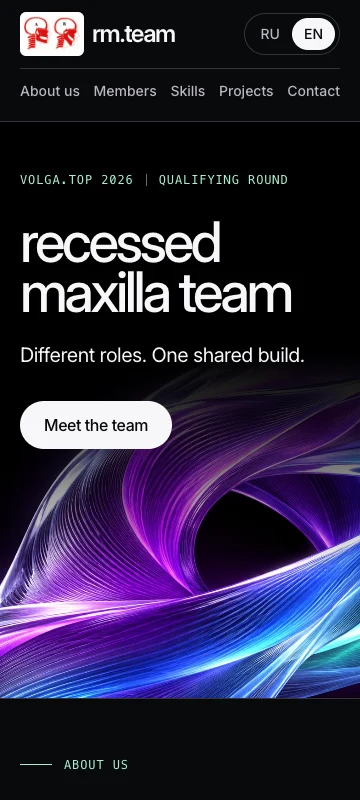
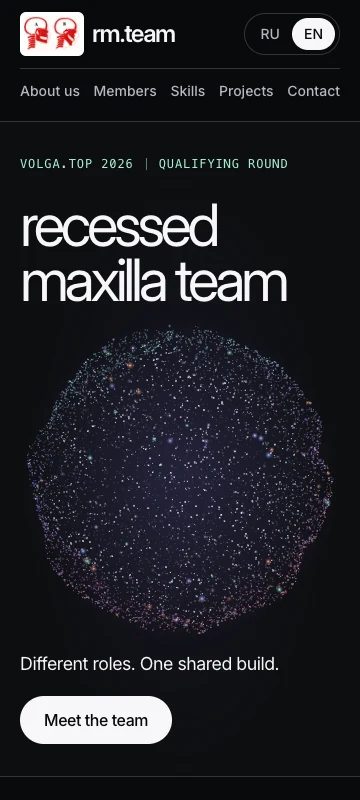
feat(frontend): animate the hero with a particle sphere

diff --git a/frontend/components/sphere-scene.ts b/frontend/components/sphere-scene.ts
@@ -1,0 +1,92 @@
+const tau = 2 * Math.PI;
+const starColors = ["#8daeff", "#9cffe6", "#ff966e", "#c1a2ff"];
+
+function makeGlow(color: string) {
+  const sprite = document.createElement("canvas");
+  sprite.width = sprite.height = 32;
+  const brush = sprite.getContext("2d");
+  if (!brush) return sprite;
+  const glow = brush.createRadialGradient(16, 16, 0, 16, 16, 16);
+  glow.addColorStop(0, "#fff");
+  glow.addColorStop(0.16, color);
+  glow.addColorStop(0.45, color + "70");
+  glow.addColorStop(1, color + "00");
+  brush.fillStyle = glow;
+  brush.fillRect(0, 0, 32, 32);
+  return sprite;
+}
+
+export function createSphereScene(context: CanvasRenderingContext2D, labels: HTMLElement[]) {
+  // A repeatable surface keeps the opening frame stable across locale changes.
+  let seed = 4627;
+  function random() {
+    seed = (Math.imul(seed, 1664525) + 1013904223) >>> 0;
+    return seed / 4294967296;
+  }
+
+  const glows = starColors.map(makeGlow);
+  const particles = Array.from({ length: 6200 }, () => {
+    const y = random() * 2 - 1;
+    const longitude = random() * tau;
+    const ring = Math.sqrt(1 - y * y);
+    const x = Math.cos(longitude) * ring;
+    const z = Math.sin(longitude) * ring;
+    const phase = longitude * 5 + y * 9;
+    const shell = 0.972 + 0.019 * Math.sin(phase) + 0.015 * Math.cos(y * 17 + longitude * 3) + random() * 0.025;
+    const hue = 261 + y * 70 + 24 * x + (random() - 0.5) * 34;
+    return {
+      x: x * shell, y: y * shell, z: z * shell, phase,
+      color: `hsl(${hue} 78% ${65 + random() * 28}%)`,
+      size: 0.0022 + random() ** 2 * 0.0043,
+      glow: random() < 0.022 ? glows[Math.floor(random() * glows.length)] : null,
+    };
+  });
+
+  const anchors = labels.map((element, index) => {
+    const y = labels.length === 1 ? 0 : 1.3 * ((index + 0.5) / labels.length - 0.5);
+    const ring = Math.sqrt(1 - y * y);
+    const angle = index * 2.4 + 0.3;
+    return { element, x: ring * Math.sin(angle), y, z: ring * Math.cos(angle) };
+  });
+
+  return function draw(size: number, time: number) {
+    const radius = size * 0.465;
+    const center = size / 2;
+    const angle = time * 0.095;
+    const cos = Math.cos(angle);
+    const sin = Math.sin(angle);
+    const tilt = 0.12 * Math.sin(time * 0.13) - 0.08;
+    const ct = Math.cos(tilt);
+    const st = Math.sin(tilt);
+    context.clearRect(0, 0, size, size);
+
+    for (const p of particles) {
+      const z = p.z * cos - p.x * sin;
+      const depth = z * ct + p.y * st;
+      const wave = 1 + 0.013 * Math.sin(time * 0.68 + p.phase);
+      const scale = radius * wave / (1 - depth * 0.095);
+      const x = center + (p.x * cos + p.z * sin) * scale;
+      const y = center + (p.y * ct - z * st) * scale;
+      const light = (depth + 1) / 2;
+      const dot = Math.max(0.55, radius * p.size * (0.68 + light));
+      context.globalAlpha = 0.29 + light * (0.58 + 0.12 * Math.sin(p.phase + time));
+      if (p.glow) {
+        const halo = dot * 3.4;
+        context.drawImage(p.glow, x - halo, y - halo, halo * 2, halo * 2);
+      } else {
+        context.fillStyle = depth > 0.54 ? "#e1e6ff" : p.color;
+        context.fillRect(x, y, dot, dot);
+      }
+    }
+    context.globalAlpha = 1;
+
+    for (const anchor of anchors) {
+      const z = anchor.z * cos - anchor.x * sin;
+      const depth = z * ct + anchor.y * st;
+      const scale = radius * 0.78 / (1 - depth * 0.095);
+      anchor.element.style.left = `${center + (anchor.x * cos + anchor.z * sin) * scale}px`;
+      anchor.element.style.top = `${center + (anchor.y * ct - z * st) * scale}px`;
+      anchor.element.style.opacity = String(Math.min(1, Math.max(0, depth * 5)));
+    }
+  };
+}

diff --git a/frontend/components/particle-sphere.tsx b/frontend/components/particle-sphere.tsx
@@ -1,0 +1,83 @@
+"use client";
+
+import { useEffect, useRef } from "react";
+import type { Locale } from "../data/team";
+import { sphereLabels } from "../data/sphere-labels";
+import { createSphereScene } from "./sphere-scene";
+
+export function ParticleSphere({ lang }: { lang: Locale }) {
+  const container = useRef<HTMLDivElement>(null);
+
+  useEffect(() => {
+    const element = container.current!;
+    const canvas = element.querySelector("canvas")!;
+    const context = canvas.getContext("2d");
+    if (!context) return;
+
+    const draw = createSphereScene(context, Array.from(element.querySelectorAll("li")));
+    const motion = window.matchMedia("(prefers-reduced-motion: reduce)");
+    let visible = false;
+    let size = 0;
+    let frame = 0;
+    let previous = 0;
+    let time = 0;
+
+    function animate(now: number) {
+      if (now - previous >= 1000 / 30) {
+        time += previous ? Math.min(now - previous, 100) / 1000 : 0;
+        previous = now;
+        draw(size, time);
+      }
+      frame = requestAnimationFrame(animate);
+    }
+
+    function sync() {
+      cancelAnimationFrame(frame);
+      previous = 0;
+      if (size && visible && !document.hidden && !motion.matches) {
+        frame = requestAnimationFrame(animate);
+      }
+    }
+
+    const resize = new ResizeObserver(() => {
+      size = canvas.clientWidth;
+      if (!size) return;
+      const pixels = Math.round(size * Math.min(window.devicePixelRatio, 2));
+      canvas.width = canvas.height = pixels;
+      context.setTransform(pixels / size, 0, 0, pixels / size, 0, 0);
+      draw(size, time);
+      element.dataset.ready = "";
+      sync();
+    });
+    const observer = new IntersectionObserver(([entry]) => {
+      visible = entry.isIntersecting;
+      sync();
+    });
+    resize.observe(canvas);
+    observer.observe(element);
+    motion.addEventListener("change", sync);
+    document.addEventListener("visibilitychange", sync);
+    return () => {
+      cancelAnimationFrame(frame);
+      resize.disconnect();
+      observer.disconnect();
+      motion.removeEventListener("change", sync);
+      document.removeEventListener("visibilitychange", sync);
+    };
+  }, []);
+
+  return (
+    <div ref={container} className="particle-sphere group pointer-events-none">
+      <canvas aria-hidden="true" className="block size-full" />
+      {sphereLabels.length > 0 && (
+        <ul className="absolute inset-0 flex flex-col items-center justify-center gap-1">
+          {sphereLabels.map((label) => (
+            <li key={label.ru} className="max-w-[45%] group-data-ready:absolute group-data-ready:-translate-1/2 rounded-sm bg-ink/85 px-2 py-1 text-center text-xs text-paper">
+              {label[lang]}
+            </li>
+          ))}
+        </ul>
+      )}
+    </div>
+  );
+}

diff --git a/frontend/app/globals.css b/frontend/app/globals.css
@@ -63,22 +63,53 @@
     @apply bg-mint;
   }
   .hero {
-    background-color: #000;
-    background-image: linear-gradient(90deg, #000 0%, #000b 36%, transparent 65%), url("./assets/volga-ribbon.webp");
-    background-size: 100% 100%, cover;
-    background-position: center, center;
-    background-repeat: no-repeat;
+    background:
+      linear-gradient(90deg, transparent calc(50% - .5px), #c6c3e019 50%, transparent calc(50% + .5px)),
+      linear-gradient(0deg, transparent calc(50% - .5px), #c6c3e017 50%, transparent calc(50% + .5px)),
+      radial-gradient(ellipse at 50% 54%, #171622, transparent 60%),
+      #0d0e10;
+  }
+  .particle-sphere {
+    @apply relative order-1 mx-auto my-3 aspect-square w-full max-w-[27rem];
+    background: radial-gradient(closest-side, #7176cf24, #7566b00d 85%, transparent);
+  }
+  .particle-sphere:not([data-ready]) canvas {
+    background: url("./assets/particle-sphere.webp") center / contain no-repeat;
   }
   .hero-title {
-    @apply max-w-[6em] text-[clamp(3.5rem,8.6vw,8.5rem)] leading-[0.89] font-medium tracking-[-0.062em];
+    @apply relative mt-6 text-[clamp(3.65rem,10vw,9rem)] leading-[0.94] font-normal tracking-[-0.075em];
   }
-  @media (max-width: 47.99rem) {
-    .hero {
-      background-size: 100% 100%, auto 64%;
-      background-position: center, 78% bottom;
-      background-image:
-        linear-gradient(to bottom, #000 40%, #000d 48%, transparent 78%),
-        url("./assets/volga-ribbon.webp");
+  .hero-action {
+    @apply relative order-2;
+  }
+  @media (min-width: 48rem) {
+    .hero-layout {
+      min-height: max(39rem, calc(100svh - 4.6rem));
+    }
+    .particle-sphere {
+      @apply absolute top-1/2 left-1/2 my-0 max-w-none -translate-1/2;
+      width: min(63%, 86svh, 62rem);
+    }
+    .hero-event {
+      @apply absolute top-[8%] left-[6%];
+    }
+    .hero-title {
+      @apply pointer-events-none absolute inset-0 m-0 text-[clamp(4.4rem,7.6vw,9rem)];
+    }
+    .hero-title span {
+      @apply pointer-events-auto absolute;
+    }
+    .hero-title span:nth-child(1) {
+      @apply top-[17%] left-[9%];
+    }
+    .hero-title span:nth-child(2) {
+      @apply top-[34%] left-[64%];
+    }
+    .hero-title span:nth-child(3) {
+      @apply bottom-[20%] left-[17%];
+    }
+    .hero-action {
+      @apply absolute right-[3%] bottom-[16%] left-[60%] lg:left-[69%];
     }
   }
 }

diff --git a/frontend/app/[lang]/page.tsx b/frontend/app/[lang]/page.tsx
@@ -1,3 +1,4 @@
+import { ParticleSphere } from "../../components/particle-sphere";
 import { MemberCard } from "../../components/member-card";
 import { TeamEmblem } from "../../components/team-emblem";
 import { members, team, teamName } from "../../data/team";
@@ -105,10 +106,11 @@ export default async function Home({ params }: PageProps<"/[lang]">) {
       <main id="main">
         <section
           aria-labelledby="hero-title"
-          className="hero border-b border-line"
+          className="hero relative isolate overflow-hidden border-b border-line"
         >
-          <div className="shell flex min-h-[36rem] flex-col items-start pt-12 pb-44 sm:min-h-[40rem] md:justify-center md:py-24 lg:min-h-[clamp(38rem,74svh,54rem)]">
-            <p className="meta mb-7 flex flex-wrap items-center gap-3 text-mint">
+          <div className="hero-layout relative mx-auto flex max-w-[112rem] flex-col px-5 py-8 sm:px-9 md:block md:px-0 md:py-0">
+            <ParticleSphere lang={lang} />
+            <p className="hero-event meta flex flex-wrap items-center gap-3 text-mint">
               <span>
                 {team.event[lang]} {team.year}
               </span>
@@ -116,14 +118,18 @@ export default async function Home({ params }: PageProps<"/[lang]">) {
               {t.round}
             </p>
             <h1 id="hero-title" lang="en" className="hero-title">
-              {teamName}
+              {teamName.split(" ").map((word, index) => (
+                <span key={index}>{index > 0 && " "}{word}</span>
+              ))}
             </h1>
-            <p className="mt-6 max-w-[30ch] text-xl leading-snug tracking-tight text-paper md:text-2xl">
-              {team.motto[lang]}
-            </p>
-            <a href="#members" className="pill mt-8">
-              {t.meet}
-            </a>
+            <div className="hero-action flex flex-col items-start gap-5">
+              <p className="max-w-[23ch] text-lg leading-snug tracking-tight text-paper md:text-xl">
+                {team.motto[lang]}
+              </p>
+              <a href="#members" className="pill">
+                {t.meet}
+              </a>
+            </div>
           </div>
         </section>
         <section

diff --git a/frontend/data/sphere-labels.ts b/frontend/data/sphere-labels.ts
@@ -1,0 +1,3 @@
+import type { Translation } from "./team";
+
+export const sphereLabels: readonly Translation[] = [];

diff --git a/docs/design.md b/docs/design.md
@@ -1,6 +1,6 @@
 # Визуальная спецификация визитки
 
-На первом экране посетитель видит название команды, девиз и переход к участникам. От главной Solana взяты композиция с крупным левым заголовком, тёмное поле с цветным изображением, округлая кнопка и контрастные редакционные секции. У визитки собственные эмблема, тексты и иллюстрация. [Визуальный референс](https://solana.com/ru)
+На первом экране посетитель видит название команды, девиз и переход к участникам. В центре вращается сфера из светящихся частиц. Вокруг неё расположены три слова названия команды. [Референс первого экрана](https://livel-agency.com/)
 
 ## Цвет и типографика
 
@@ -14,14 +14,14 @@
 | `lilac` | `#dfcdf5` | Подвал и роли |
 | `mint` | `#a4f1cf` | Подписи категорий и состояние наведения основной кнопки |
 
-Inter обслуживает кириллицу и латиницу. Файл переменного шрифта поставляется с приложением. Главный заголовок масштабируется от 56 до 136 px, межстрочный интервал составляет 0,89 размера шрифта. Заголовки секций используют шкалу 37,6–72 px. Основной текст начинается с 16 px. Короткие подписи мероприятия и учебной группы набраны системным моноширинным шрифтом. Исходные значения в rem и правила компонентов приведены в [общих стилях](../frontend/app/globals.css).
+Inter обслуживает кириллицу и латиницу. Файл переменного шрифта поставляется с приложением. Главный заголовок использует обычное начертание Inter с плотным трекингом и межстрочным интервалом 0,94. Заголовки секций используют шкалу 37,6–72 px. Основной текст начинается с 16 px. Короткие подписи мероприятия и учебной группы набраны системным моноширинным шрифтом. Исходные значения в rem и правила компонентов приведены в [общих стилях](../frontend/app/globals.css).
 
 ## Композиция
 
 | Область | Правило |
 | --- | --- |
 | Шапка | Логотип команды и сокращённое имя слева, якоря в центре, языки справа. На узком экране меню образует отдельную строку и может переноситься. |
-| Первый экран | Название выровнено по левому краю. Статическое WebP с переливающейся лентой занимает правую часть, на телефоне уходит к нижнему краю. Весь текст остаётся в HTML. |
+| Первый экран | От 768 px слова названия обрамляют сферу, девиз и кнопка стоят справа внизу. На телефоне сфера расположена между заголовком и девизом. Весь текст остаётся в HTML. |
 | О команде | Узкая колонка с названием и более широкая с рассказом о команде и мотивации. |
 | Участники | Карточка содержит имя, аватар, группу, роль, вклад, навыки и контакт. При ширине от 768 px в ряду две карточки, от 1280 px — четыре. |
 | Навыки | Три строки с названием категории и списком технологий. Текст переносится независимо от соседней строки. |

diff --git a/docs/design-system.md b/docs/design-system.md
@@ -6,6 +6,6 @@
 - `.pill` оформляет основное действие. `.text-link` сохраняет подчёркивание у внешних ссылок. Якоря меню получают контрастный текст при наведении. Видимый контур фокуса отделён от ссылки зазором.
 - Активный язык получает светлую заливку и `aria-current="page"`. Обе версии открываются обычными ссылками. Первая ссылка при обходе с клавиатуры ведёт к основному содержимому.
 - Навыки участников оформляются классом `.tag` и остаются элементами списка. Эмблемы рядом с названием и аватары при подписанном имени скрыты от экранного диктора.
-- Лента на первом экране статична. При системной настройке уменьшения движения отключается переход цвета основной кнопки.
+- На первом экране медленно вращается сфера из частиц. При системной настройке уменьшения движения виден неподвижный кадр, переход цвета основной кнопки отключается.
 
 Перед публикацией проверьте переключение RU → EN → RU, видимый фокус, все якоря, контакт и проект. На 360, 768 и 1440 px проверьте перенос имён и заголовков, наличие изображения и отсутствие горизонтальной прокрутки.

diff --git a/docs/components.md b/docs/components.md
@@ -3,7 +3,7 @@
 | Компонент | Содержимое и состояния |
 | --- | --- |
 | Шапка | Эмблема со ссылкой на текущую языковую версию, меню, RU и EN. Активная ссылка имеет доступное состояние и контрастную заливку. |
-| Первый экран | Событие, название команды, девиз, ссылка к участникам. Декоративная лента задана фоном. |
+| Первый экран | Событие, название команды, девиз, ссылка к участникам. В центре вращается декоративная сфера. Локализованные подписи на её поверхности задаёт [список в TypeScript](../frontend/data/sphere-labels.ts). |
 | Карточка участника | Локализованные имя, роль, вклад и навыки, учебная группа, фото или инициалы. При заполненном личном контакте показывает личную ссылку, иначе ведёт в общий канал с подписью «Через команду / Via the team». |
 | Строка навыков | Название категории и список элементов, допускающий перенос. |
 | Карточка проекта | Обложка, тип «Проект / Project» или «Идея / Idea», название, описание и необязательная ссылка. |

diff --git a/docs/decisions/0010-hero-particle-sphere.md b/docs/decisions/0010-hero-particle-sphere.md
@@ -1,0 +1,9 @@
+# 0010. Сфера из частиц на первом экране
+
+Дата принятия — 2026-11-26.
+
+Команда выбрала [первый экран livel agency](https://livel-agency.com/) как референс для движения и композиции. Название команды, событие, девиз и переход к участникам сохраняются.
+
+Клиентский компонент проецирует вращающееся облако точек на Canvas 2D. Сцена рисуется локально средствами браузера. Вне видимой области и в фоновой вкладке анимация приостанавливается. При уменьшенном движении сфера остаётся неподвижной. До первого кадра виден локальный WebP.
+
+Подписи на поверхности берутся из отдельного [списка переводов](../../frontend/data/sphere-labels.ts). Пустой список оставляет сферу без подписей. Решение обновляет оформление первого экрана из [решения 0007](0007-solana-inspired-design.md).

diff --git a/README.md b/README.md
@@ -19,6 +19,8 @@
 
 Состав команды, тексты, навыки, портфолио и адреса для связи редактируются в [frontend/data/team.ts](frontend/data/team.ts). Для переводимых полей заполните `ru` и `en`. Чтобы опубликовать работу, добавьте в `team.projects` название, описание и тип `project` или `idea`; ссылку можно указать при наличии. Раздел портфолио и его пункт меню появляются с первой работой. Первая работа — сама визитка. Поле `team.contact` задаёт общий адрес связи для подвала и карточек без личного контакта. Сейчас оно ведёт в GitHub Issues проекта.
 
+Подписи на вращающейся сфере задаёт массив `sphereLabels` в [sphere-labels.ts](frontend/data/sphere-labels.ts). Добавляйте по одному объекту с полями `ru` и `en` на подпись. Сейчас массив пуст.
+
 ## 3. Технологический стек
 
 | Часть | Технологии |

diff --git a/docs/decisions/README.md b/docs/decisions/README.md
@@ -13,5 +13,6 @@
 | [0007. Визуальная система по референсу Solana](0007-solana-inspired-design.md) | 2026-11-25 |
 | [0008. Общий контакт и первая работа в портфолио](0008-team-contact-and-portfolio.md) | 2026-11-25 |
 | [0009. Логотип команды в шапке и портфолио](0009-team-logo.md) | 2026-11-26 |
+| [0010. Сфера из частиц на первом экране](0010-hero-particle-sphere.md) | 2026-11-26 |
 
 Скопируй [шаблон записи](template.md) в файл `NNNN-краткое-название.md` и добавь его в таблицу.
